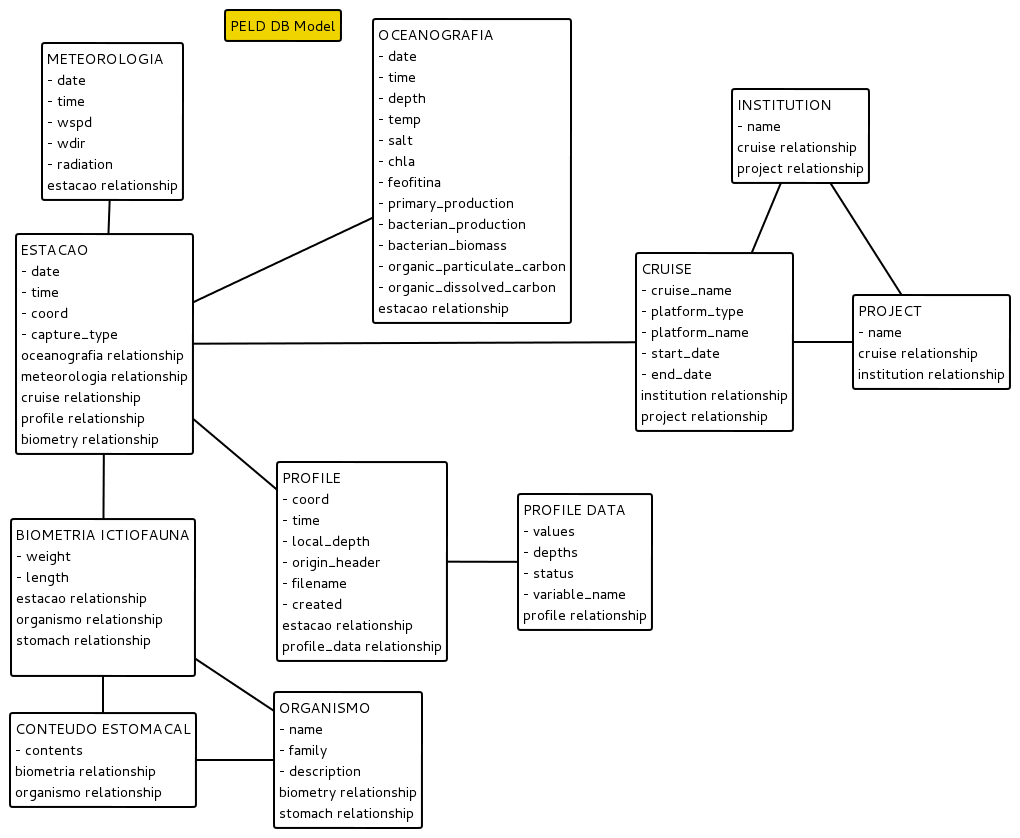
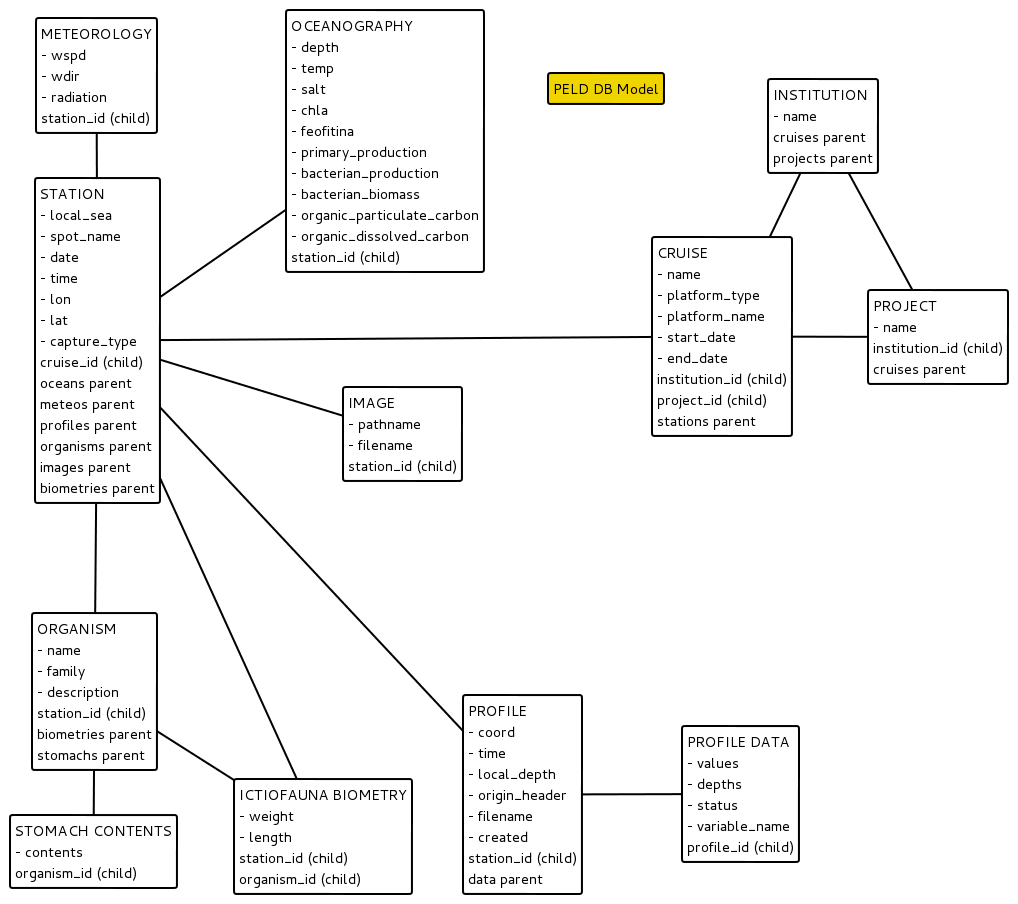
final touches in the database model

diff --git a/model.py b/model.py
@@ -25,7 +25,32 @@ class SeaPolygon(Base):
     name = Column(Unicode)
     poly = GeometryColumn(Polygon(2))
 
-class Meteorologia(Base):
+
+
+
+class Station(Base):
+    __tablename__ = 'station'
+    """Oceanographic Parameters"""
+    id = Column(Integer, primary_key=True)
+    local_sea = Column(Unicode) # i.e. inner or outer sea
+    spot_name = Column(Unicode) # i.e. saco do cardeiro, enseada do forno, etc
+    name = Column(Unicode)
+    date = Column(Date)
+    time = Column(Time)
+    local_depth = Column(Float)
+    lon = Column(Float)
+    lat = Column(Float)
+    capture_type = Column(Unicode)
+    cruise_id = Column(ForeignKey('cruise.id'))
+    meteos = relationship("Meteorology", backref="station")
+    oceans = relationship("Oceanography", backref="station")
+    images = relationship("Image", backref="station")
+    profiles = relationship("Profile", backref="station")
+    organisms = relationship("Organism", backref="station")
+    biometries = relationship("IctiofaunaBiometry", backref="station")
+
+
+class Meteorology(Base):
     __tablename__ = 'meteo'
     """Meteorological Parameters"""
     id = Column(Integer, primary_key=True)
@@ -34,7 +59,7 @@ class Meteorologia(Base):
     radiation = Column(Float)
     station_id = Column(ForeignKey('station.id'))
 
-class Oceanografia(Base):
+class Oceanography(Base):
     __tablename__ = 'ocean'
     """Oceanographic Parameters"""
     id = Column(Integer, primary_key=True)
@@ -50,84 +75,13 @@ class Oceanografia(Base):
     org_diss_carbon = Column(Float)
     station_id = Column(ForeignKey('station.id'))
 
-class Estacao(Base):
-    __tablename__ = 'station'
-    """Oceanographic Parameters"""
+class Image(Base):
+    __tablename__ = 'image'
+    """JPG Images"""
     id = Column(Integer, primary_key=True)
-    local_sea = Column(Unicode) # i.e. inner or outer sea
-    spot_name = Column(Unicode) # i.e. saco do cardeiro, enseada do forno, etc
-    name = Column(Unicode)
-    date = Column(Date)
-    time = Column(Time)
-    local_depth = Column(Float)
-    lon = Column(Float)
-    lat = Column(Float)
-    capture_type = Column(Unicode)
-    cruise_id = Column(ForeignKey('cruise.id'))
-    meteo = relationship("Meteorologia", uselist=False, backref="station")
-    ocean = relationship("Oceanografia", uselist=False, backref="station")
-    profile = relationship("Profile", uselist=False, backref="station")
-    biometry = relationship("BiometriaIctiofauna", uselist=False, backref="station")
-
-# PRECISO FALAR COM O RICARDO DESSA RELACAO #########################################
-class BiometriaIctiofauna(Base):
-    __tablename__ = 'biometry'
-    """Biometry of Ictiofauna"""
-    id = Column(Integer, primary_key=True)
-    weight = Column(Float)
-    length = Column(Float)
-    stomach = relationship("ConteudoEstomacal", uselist=False, backref="biometry")
+    pathname = Column(Unicode)
+    filename = Column(Unicode)
     station_id = Column(ForeignKey('station.id'))
-    organism_id = Column(ForeignKey('organism.id'))
-
-class Organismo(Base):
-    __tablename__ = 'organism'
-    """Organism Characteristics"""
-    id = Column(Integer, primary_key=True)
-    name = Column(Unicode)
-    family = Column(Unicode)
-    description = Column(Unicode)
-    biometry = relationship("BiometriaIctiofauna", uselist=False, backref="organism")
-
-class ConteudoEstomacal(Base):
-    __tablename__ = 'stomach'
-    """Stomach contents"""
-    id = Column(Integer, primary_key=True)
-    contents = Column(Unicode)
-    biometry_id = Column(ForeignKey('biometry.id'))
-    
-#######################################################################################
-
-
-class Institution(Base):
-    __tablename__ = 'institution'
-    """Institution responsible for data acquisition"""
-    id = Column(Integer, primary_key=True)
-    name = Column(Unicode)
-    cruise = relationship("Cruise", backref="institution")
-    project = relationship("Project", backref="institution")
-
-class Project(Base):
-    __tablename__ = 'project'
-    """Project at which data was acquired"""
-    id = Column(Integer, primary_key=True)
-    name = Column(Unicode)
-    institution_id = Column(ForeignKey('institution.id'))
-    cruise = relationship("Cruise", backref="project")
-    
-
-class Cruise(Base):
-    """Each Ship Comission"""
-    __tablename__ = 'cruise'
-    id = Column(Integer, primary_key=True)
-    cruise_name = Column(Unicode) 
-    platform_name = Column(Unicode)
-    platform_type = Column(Unicode)
-    start_date = Column(Date)
-    end_date = Column(Date)
-    institution_id = Column(ForeignKey('institution.id'))
-    project_id = Column(ForeignKey('project.id'))
-    station = relationship("Estacao", backref="Station")
 
 class Profile(Base):
     """Profile Table"""
@@ -149,6 +103,68 @@ class ProfileData(Base):
     depths = Column(postgresql.ARRAY(Float))
     status = Column(Unicode) # raw, qualified or filtered
     profile_id = Column(ForeignKey('profile.id'))
+
+
+# PRECISO FALAR COM O RICARDO DESSA RELACAO #########################################
+class IctiofaunaBiometry(Base):
+    __tablename__ = 'biometry'
+    """Biometry of Ictiofauna"""
+    id = Column(Integer, primary_key=True)
+    weight = Column(Float)
+    length = Column(Float)
+    station_id = Column(ForeignKey('station.id'))
+    organism_id = Column(ForeignKey('organism.id'))
+
+class Organism(Base):
+    __tablename__ = 'organism'
+    """Organism Characteristics"""
+    id = Column(Integer, primary_key=True)
+    name = Column(Unicode)
+    family = Column(Unicode)
+    description = Column(Unicode)
+    station_id = Column(ForeignKey('station.id'))
+    biometries = relationship("IctiofaunaBiometry", backref="organism")
+    stomach = relationship("StomachContents", backref="organism")
+
+class StomachContents(Base):
+    __tablename__ = 'stomach'
+    """Stomach contents"""
+    id = Column(Integer, primary_key=True)
+    contents = Column(Unicode)
+    organism_id = Column(ForeignKey('organism.id'))
+    
+#######################################################################################
+
+
+class Institution(Base):
+    __tablename__ = 'institution'
+    """Institution responsible for data acquisition"""
+    id = Column(Integer, primary_key=True)
+    name = Column(Unicode)
+    cruises = relationship("Cruise", backref="institution")
+    projects = relationship("Project", backref="institution")
+
+class Project(Base):
+    __tablename__ = 'project'
+    """Project at which data was acquired"""
+    id = Column(Integer, primary_key=True)
+    name = Column(Unicode)
+    institution_id = Column(ForeignKey('institution.id'))
+    cruises = relationship("Cruise", backref="project")
+    
+
+class Cruise(Base):
+    """Each Ship Comission"""
+    __tablename__ = 'cruise'
+    id = Column(Integer, primary_key=True)
+    name = Column(Unicode) 
+    platform_name = Column(Unicode)
+    platform_type = Column(Unicode)
+    start_date = Column(Date)
+    end_date = Column(Date)
+    institution_id = Column(ForeignKey('institution.id'))
+    project_id = Column(ForeignKey('project.id'))
+    stations = relationship("Station", backref="Station")
 
 
 GeometryDDL(Profile.__table__)

diff --git a/testingDB.py b/testingDB.py
@@ -15,7 +15,7 @@ S.session.add(peld)
 S.session.commit()
 
 		# INSERTING CRUISES
-pilot = Cruise(cruise_name='PILOT', platform_type='Boat', platform_name='Leg',
+pilot = Cruise(name='PILOT', platform_type='Boat', platform_name='Leg',
 	           start_date=dt.date(2014, 01, 01), end_date=dt.date(2014, 01, 10), 
 	           institution_id=ieapm.id, project_id=peld.id)
 S.session.add(pilot)
@@ -23,30 +23,30 @@ S.session.commit()
 
 
 			# INSERTING STATIONS
-s1 = Estacao(date=dt.date(2014, 01, 01), time=dt.time(10, 30, 0), local_depth=100., 
+s1 = Station(date=dt.date(2014, 01, 01), time=dt.time(10, 30, 0), local_depth=100., 
 	               lon=-42.0, lat=-23.1, capture_type='Arrasto', cruise_id=pilot.id)
 S.session.add(s1)
 S.session.commit()
 				
 				# INSERTING OCEANOGRAPHIC PARAMETERS
-o1 = Oceanografia(depth=10., temp=23.4, salt=36.78, chla=0.5564, feofitina=6.7, 
+o1 = Oceanography(depth=10., temp=23.4, salt=36.78, chla=0.5564, feofitina=6.7, 
 	              primary_prod=30.9, bacterian_prod=0.88, bacterian_biomass=None, 
 	              org_part_carbon=None, org_diss_carbon=0.000342, station_id=s1.id)
 S.session.add(o1)
 S.session.commit()
 
 				# INSERTING METEOROLOGICAL PARAMETERS
-m1 = Meteorologia(wspd=8.5, wdir=82., radiation=None, station_id=s1.id)
+m1 = Meteorology(wspd=8.5, wdir=82., radiation=None, station_id=s1.id)
 S.session.add(m1)
 S.session.commit()
 
-s2 = Estacao(date=dt.date(2014, 01, 01), time=dt.time(11, 30, 0), local_depth=120., 
+s2 = Station(date=dt.date(2014, 01, 01), time=dt.time(11, 30, 0), local_depth=120., 
 	               lon=-42.0, lat=-23.1, capture_type='Arrasto', cruise_id=pilot.id)
 S.session.add(s2)
 S.session.commit()
 
 
-peld1 = Cruise(cruise_name='PELD1', platform_type='Boat', platform_name='Leg',
+peld1 = Cruise(name='PELD1', platform_type='Boat', platform_name='Leg',
 	           start_date=dt.date(2014, 02, 01), end_date=dt.date(2014, 02, 10), 
 	           institution_id=ieapm.id, project_id=peld.id)
 S.session.add(peld1)
@@ -59,13 +59,13 @@ S.session.add(inct)
 S.session.commit()
 
 		# INSERTING CRUISES
-inct1 = Cruise(cruise_name='INCT1', platform_type='Ship', platform_name='Diadorim',
+inct1 = Cruise(name='INCT1', platform_type='Ship', platform_name='Diadorim',
 	           start_date=dt.date(2013, 01, 01), end_date=dt.date(2013, 01, 10), 
 	           institution_id=ieapm.id, project_id=inct.id)
 S.session.add(inct1)
 S.session.commit()
 
-inct2 = Cruise(cruise_name='INCT2', platform_type='Ship', platform_name='Diadorim',
+inct2 = Cruise(name='INCT2', platform_type='Ship', platform_name='Diadorim',
 	           start_date=dt.date(2013, 02, 01), end_date=dt.date(2013, 02, 10), 
 	           institution_id=ieapm.id, project_id=inct.id)
 S.session.add(inct2)
